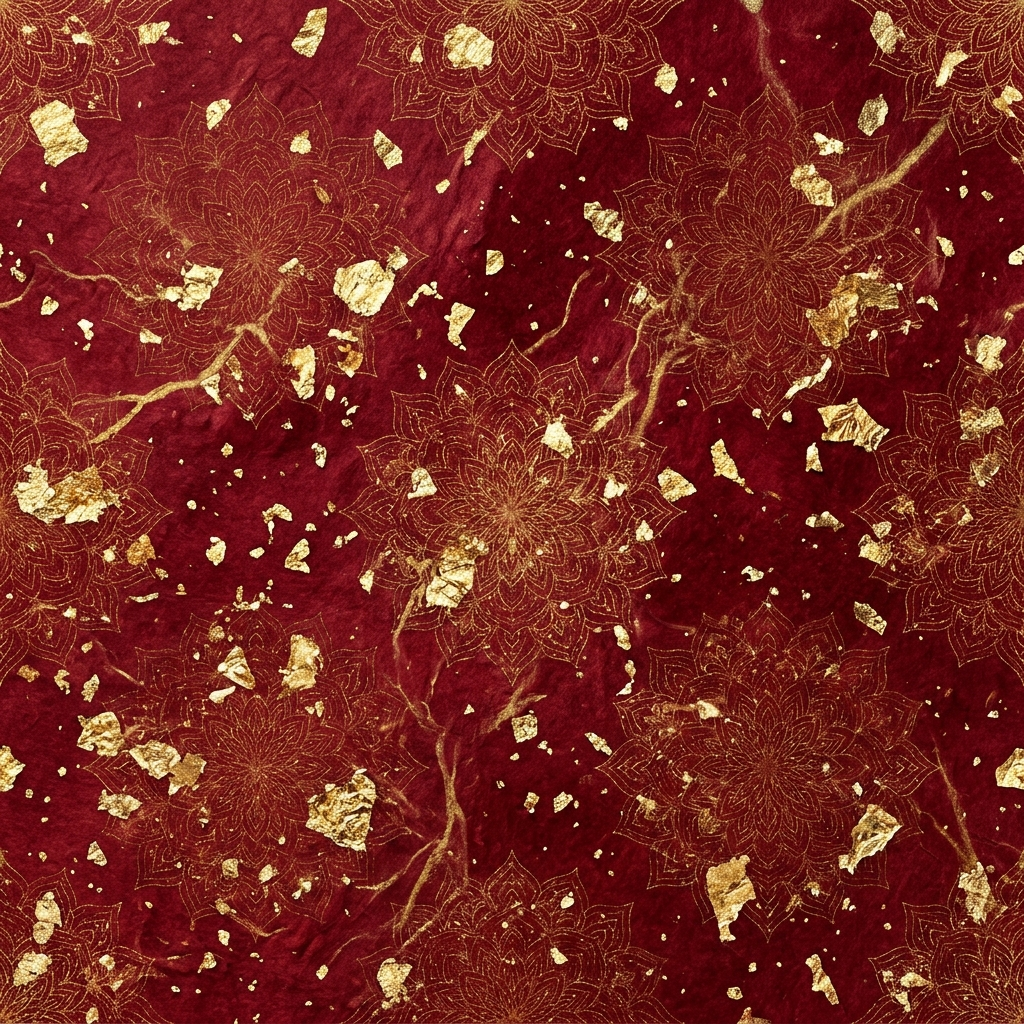
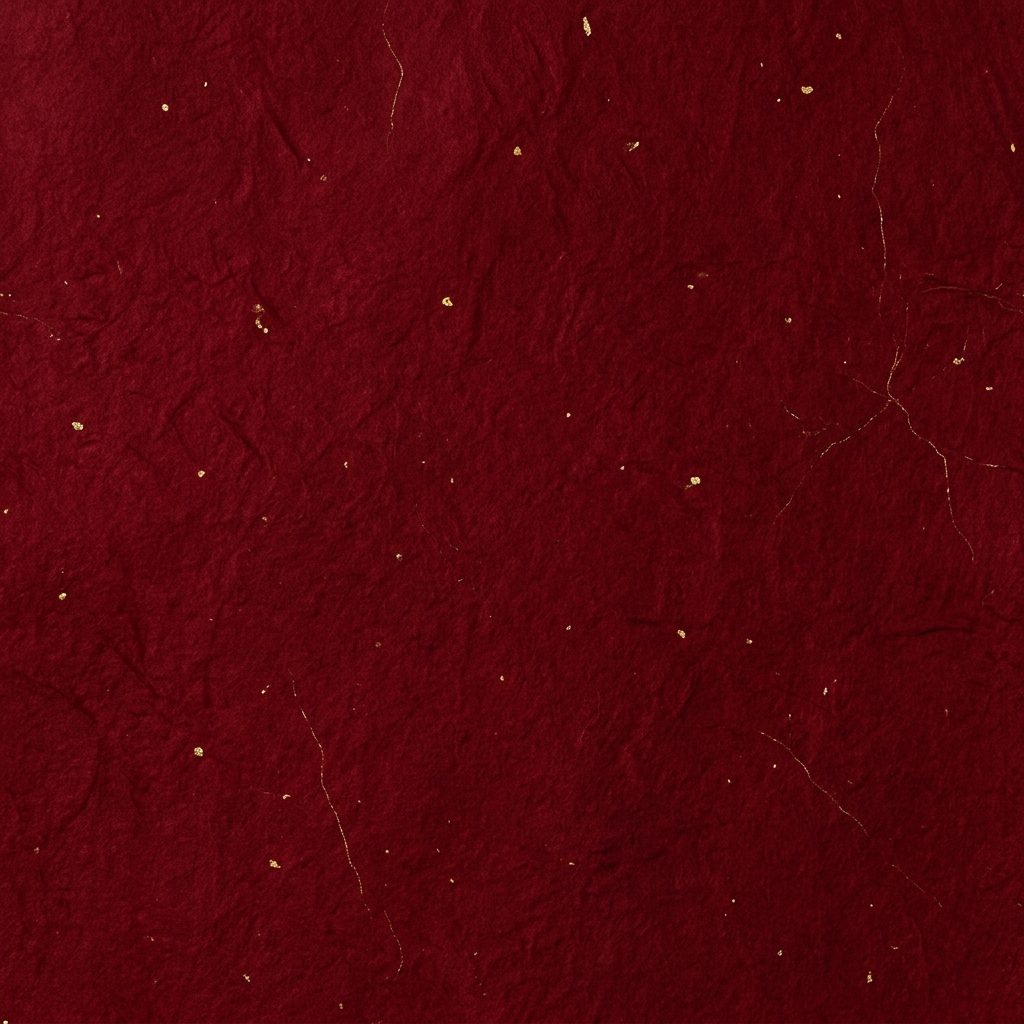
Reduce gold content: transition to rich deep crimson red paper with minimal gold specks and subtle gold veins

diff --git a/styles.css b/styles.css
@@ -43,13 +43,13 @@ html {
 
 body {
     font-family: var(--font-body);
-    /* Royal Crimson Red Handmade Paper with Gold Leaf Foil Flakes & Sacred Mandalas */
+    /* Deep Crimson Red Handmade Textured Paper with Subtle Gold Specks & Thin Veins */
     background-image:
-        radial-gradient(ellipse 80% 55% at 50% 0%,  rgba(255, 225, 120, 0.20) 0%, transparent 65%),
-        radial-gradient(ellipse 90% 45% at 50% 100%, rgba(212, 175, 55, 0.18) 0%, transparent 60%),
-        linear-gradient(to bottom, rgba(30, 4, 8, 0.12), rgba(15, 2, 4, 0.20)),
+        radial-gradient(ellipse 80% 55% at 50% 0%,  rgba(255, 220, 110, 0.16) 0%, transparent 65%),
+        radial-gradient(ellipse 90% 45% at 50% 100%, rgba(212, 175, 55, 0.14) 0%, transparent 60%),
+        linear-gradient(to bottom, rgba(20, 2, 4, 0.10), rgba(10, 1, 2, 0.18)),
         url('red_molten_gold_bg.png');
-    background-size: auto, auto, auto, 650px 650px;
+    background-size: auto, auto, auto, 700px 700px;
     background-attachment: scroll, scroll, scroll, fixed;
     background-repeat: no-repeat, no-repeat, no-repeat, repeat;
     background-position: center top, center bottom, center, center;
